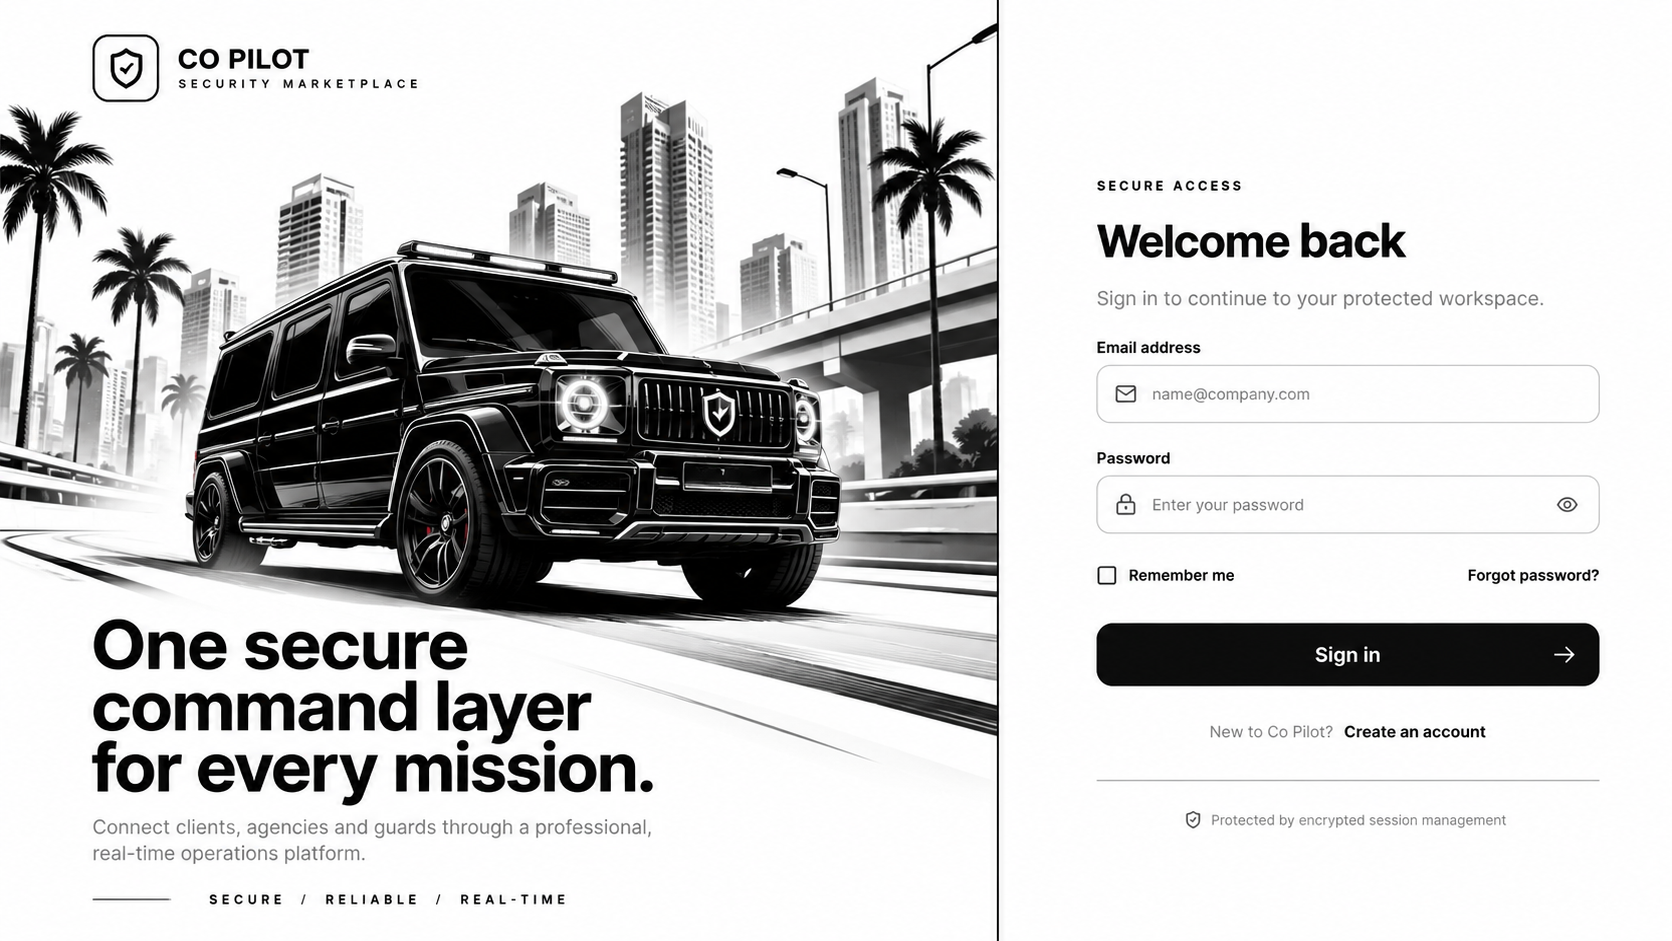
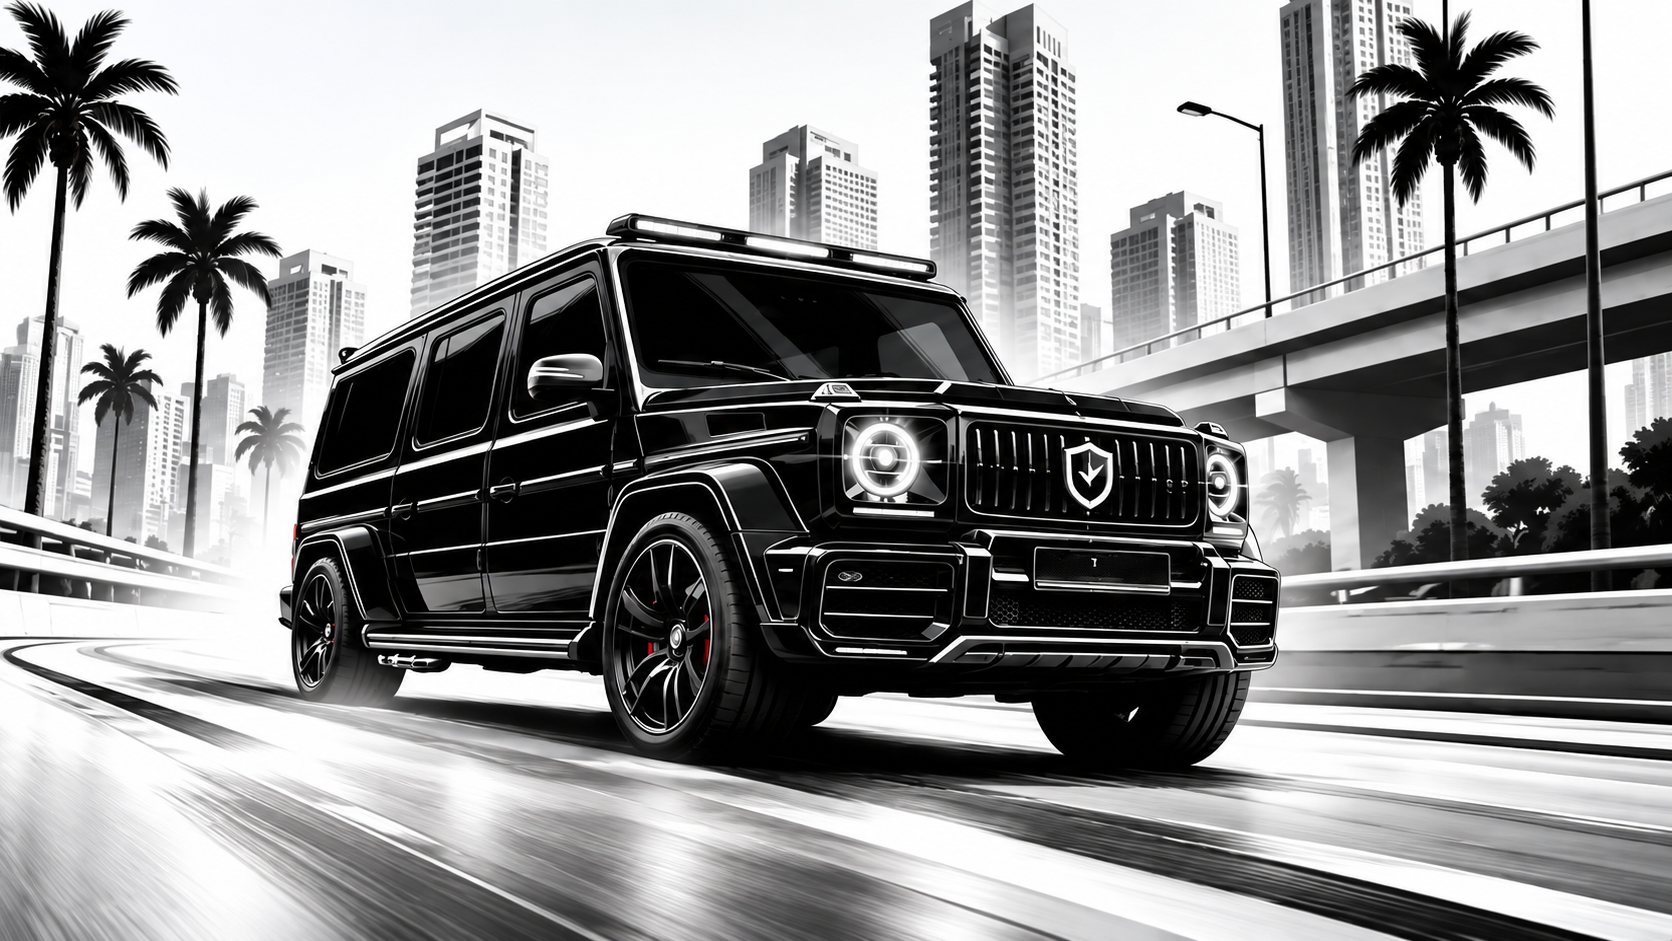
Layer landing copy over clean security hero

diff --git a/src/styles.css b/src/styles.css
@@ -5108,8 +5108,10 @@ input:disabled, select:disabled{
 
 /* Auth hero — generated Co Pilot identity artwork */
 .auth-page{grid-template-columns:minmax(0,1.6fr) minmax(420px,.85fr);background:#fff}
-.auth-visual.auth-visual-art{position:relative;display:block;padding:0;background:#fff;overflow:hidden;min-height:100dvh;border-right:1px solid #e8e8e8}
-.auth-hero-art{position:absolute;inset:0 auto 0 0;width:169.5%;height:100%;max-width:none;object-fit:cover;object-position:left center;display:block}
-.auth-panel{background:#fff;color:#111}
-@media(max-width:1100px) and (min-width:851px){.auth-page{grid-template-columns:minmax(0,1.35fr) minmax(400px,.85fr)}.auth-hero-art{width:169.5%;object-position:left center}}
+.auth-visual.auth-visual-art{position:relative;display:flex;flex-direction:column;padding:0;background:#fff;overflow:hidden;min-height:100dvh;border-right:1px solid #e8e8e8}
+.auth-hero-media{position:absolute;inset:0 0 32% 0;overflow:hidden;background:#fff}
+.auth-hero-art{width:100%;height:100%;max-width:none;object-fit:cover;object-position:center center;display:block}
+.auth-hero-brand{position:absolute;z-index:3;left:7.5%;top:4.5%;display:flex;align-items:center;gap:14px;color:#090909}.auth-brand-shield{width:48px;height:48px;border:2px solid #111;border-radius:11px;display:grid;place-items:center;background:rgba(255,255,255,.94)}.auth-hero-brand strong{display:block;font-size:20px;line-height:1;font-weight:900;letter-spacing:.06em}.auth-hero-brand small{display:block;margin-top:7px;font-size:7px;font-weight:900;letter-spacing:.34em}
+.auth-hero-copy{position:absolute;z-index:4;left:7.5%;right:5%;bottom:4.5%;height:29%;display:flex;flex-direction:column;justify-content:flex-end;color:#090909;background:linear-gradient(to bottom,rgba(255,255,255,0),#fff 10%,#fff 100%)}.auth-hero-eyebrow{display:none}.auth-hero-copy h1{margin:0;font-size:clamp(42px,3.45vw,61px);line-height:.92;letter-spacing:-.055em;font-weight:900}.auth-hero-copy p{margin:18px 0 0;color:#707070;font-size:14px;line-height:1.45}.auth-hero-trust{display:flex;align-items:center;gap:18px;margin-top:20px;font-size:8px;font-weight:900;letter-spacing:.3em}.auth-hero-trust i{display:block;width:58px;height:1px;background:#111}.auth-hero-trust b{font-weight:700}.auth-panel{background:#fff;color:#111}
+@media(max-width:1100px) and (min-width:851px){.auth-page{grid-template-columns:minmax(0,1.35fr) minmax(400px,.85fr)}.auth-hero-media{bottom:34%}.auth-hero-copy{height:31%}.auth-hero-copy h1{font-size:40px}.auth-hero-brand{left:6%}.auth-hero-copy{left:6%}}
 @media(max-width:850px){.auth-page{grid-template-columns:1fr}.auth-visual.auth-visual-art{display:none}.auth-panel{min-height:100dvh}}

diff --git a/src/modules/auth/AuthGateway.tsx b/src/modules/auth/AuthGateway.tsx
@@ -34,7 +34,11 @@ function AuthScreen() {
     setBusy(false)
   }
   return <div className="auth-page">
-    <section className="auth-visual auth-visual-art" aria-label="Co Pilot Security Marketplace"><img className="auth-hero-art" src="/copilot-auth-hero.png" alt="Co Pilot security marketplace with premium security vehicle in a modern city" /></section>
+    <section className="auth-visual auth-visual-art" aria-label="Co Pilot Security Marketplace">
+      <div className="auth-hero-media"><img className="auth-hero-art" src="/copilot-auth-hero.png" alt="Premium security vehicle in a modern city" /></div>
+      <div className="auth-hero-brand"><span className="auth-brand-shield"><ShieldCheck size={26} /></span><span><strong>CO PILOT</strong><small>SECURITY MARKETPLACE</small></span></div>
+      <div className="auth-hero-copy"><span className="auth-hero-eyebrow">SECURITY MARKETPLACE</span><h1>One secure<br/>command layer<br/>for every mission.</h1><p>Connect clients, agencies and guards through a professional,<br/>real-time operations platform.</p><div className="auth-hero-trust"><i></i><span>SECURE</span><b>/</b><span>RELIABLE</span><b>/</b><span>REAL-TIME</span></div></div>
+    </section>
     <section className="auth-panel"><div className="auth-form-wrap">
       {!inviteToken && view !== 'login' && <button className="auth-back" onClick={() => {setView('login');setMessage('')}}><ArrowLeft/>Back to sign in</button>}
       <div className="auth-mobile-brand"><ShieldCheck/><span>CO PILOT</span></div>
